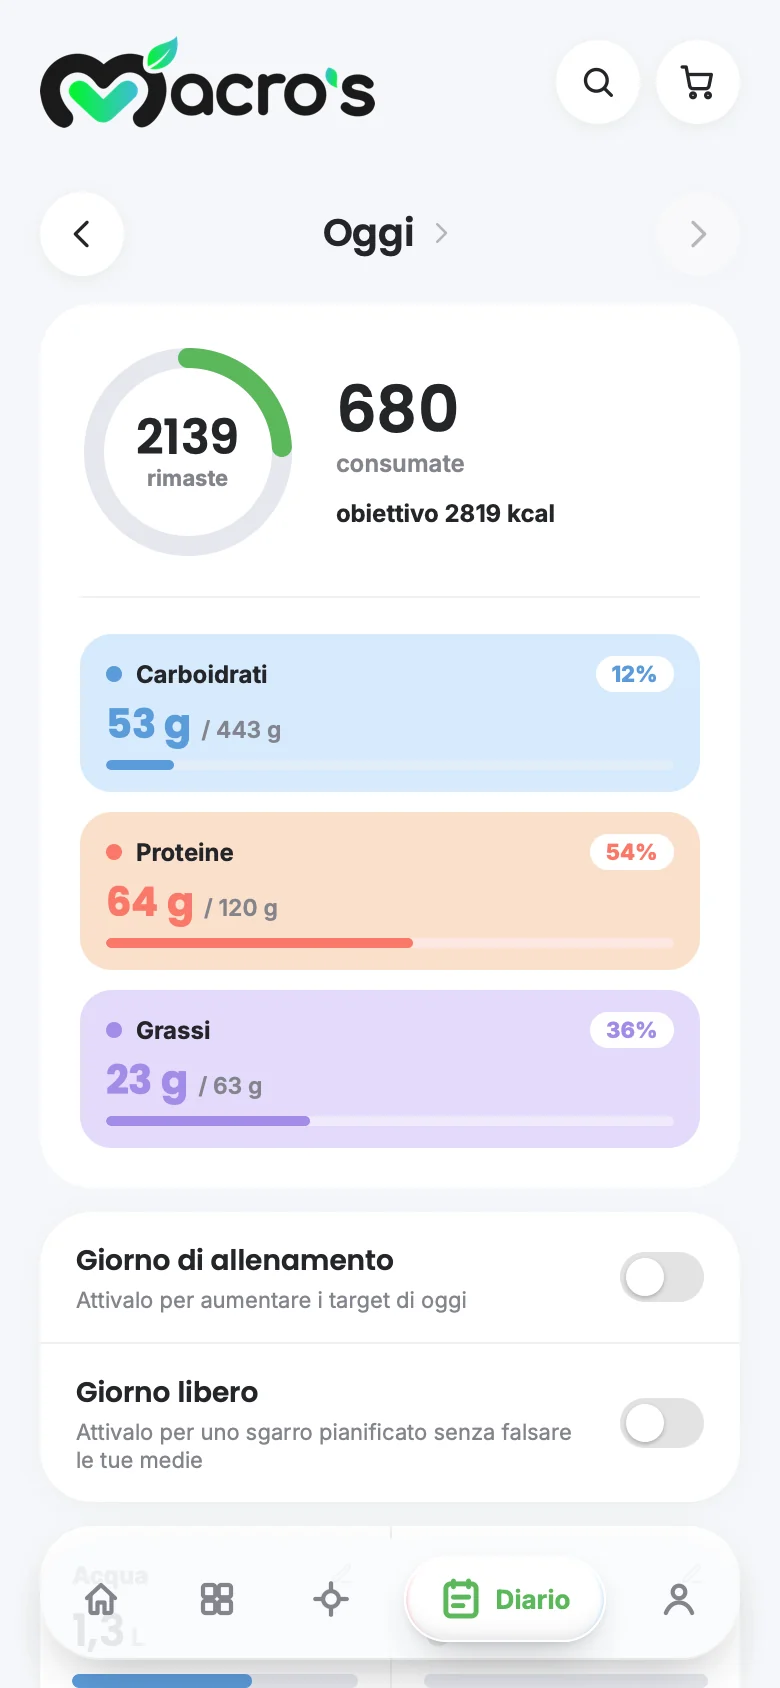
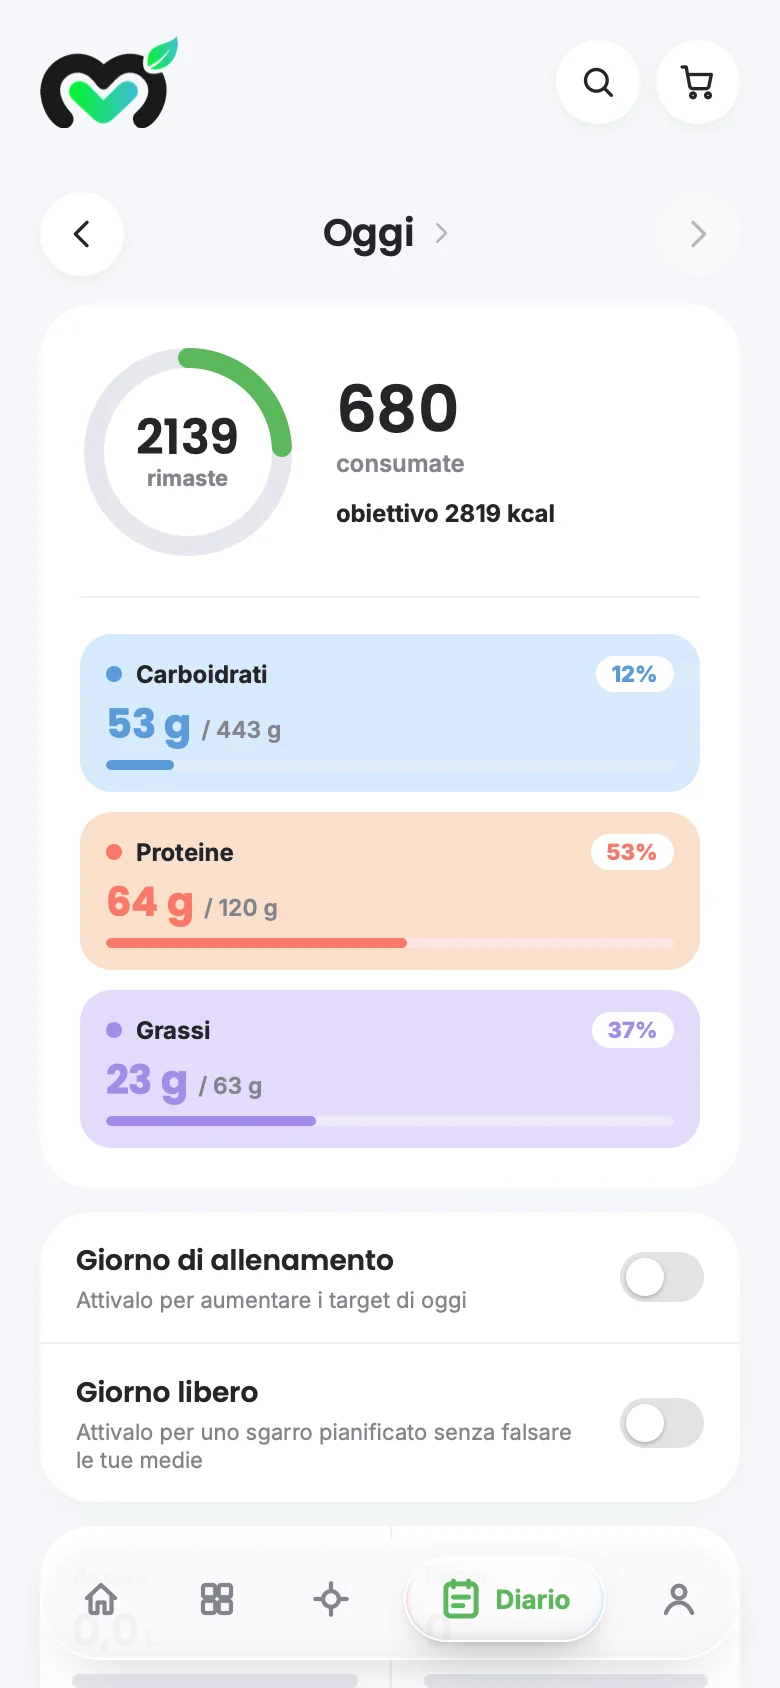
Landing: marchio attuale, Taste your goals, muffin, barattoli dei topping, schermate nuove dell'app

Changed region(s): [[0.2154, 0.0308, 0.4923, 0.0924], [0.0923, 0.9858, 0.3385, 1.0]]

diff --git a/index.html b/index.html
@@ -77,7 +77,7 @@ button{font:inherit;color:inherit;background:none;border:0;cursor:pointer;}
 .nav{position:sticky;top:0;z-index:30;background:rgba(20,21,25,.72);-webkit-backdrop-filter:saturate(1.4) blur(18px);backdrop-filter:saturate(1.4) blur(18px);border-bottom:1px solid transparent;transition:border-color .3s ease,background-color .3s ease;}
 .nav.scrolled{border-bottom-color:var(--line);background:rgba(20,21,25,.84);}
 .nav .wrap{display:flex;align-items:center;justify-content:space-between;height:64px;gap:16px;}
-.nav-logo img{height:28px;width:auto;}
+.nav-logo img{height:32px;width:auto;}
 .nav-links{display:flex;align-items:center;gap:30px;font-size:14px;}
 .nav-links a:not(.btn){position:relative;color:var(--text-2);text-decoration:none;transition:color .2s ease;}
 .nav-links a:not(.btn)::after{content:"";position:absolute;left:0;right:0;bottom:-5px;height:1.5px;border-radius:2px;background:var(--mint);transform:scaleX(0);transform-origin:left;transition:transform .35s var(--ease-out);}
@@ -357,7 +357,7 @@ html:not(.motion-ok) .meal[aria-hidden="true"]{display:none;}
 .legend{display:flex;flex-wrap:wrap;gap:6px 16px;margin-top:6px;font-size:13px;color:var(--text-3);}
 
 /* Dolci proteici */
-.sweets{list-style:none;margin:56px 0 0;padding:0;display:grid;grid-template-columns:repeat(4,minmax(0,1fr));gap:20px;}
+.sweets{list-style:none;margin:56px 0 0;padding:0;display:grid;grid-template-columns:repeat(5,minmax(0,1fr));gap:20px;}
 .sweet{padding:20px 20px 22px;border-radius:24px;background:var(--raise);box-shadow:inset 0 0 0 1px var(--line);}
 .sweet img{width:100%;aspect-ratio:1/1;object-fit:contain;filter:drop-shadow(0 18px 18px rgba(0,0,0,.5));margin-bottom:12px;transition:transform .6s var(--ease-out);}
 .sweet img.sweet-sm{padding:12%;}
@@ -541,13 +541,18 @@ html:not(.motion-ok) .meal[aria-hidden="true"]{display:none;}
 }
 footer .foot-credit{flex-basis:100%;}   /* riga a sé, sotto © anno */
 .final .bp-msg{min-height:1.5em;margin-top:16px;font-size:15px;color:var(--text-2);}   /* business plan: il PDF non c'è ancora */
+.hero-claim{margin:0 0 14px;font-size:13px;font-weight:700;letter-spacing:.14em;text-transform:uppercase;background:linear-gradient(90deg,#02aee0,#00de5a);-webkit-background-clip:text;background-clip:text;color:transparent;}
+.sweets .sweet:last-child:nth-child(odd){grid-column:auto;}
+@media (max-width:1080px){.sweets .sweet:last-child:nth-child(odd){grid-column:1/-1;width:calc(50% - 10px);justify-self:center;}}
+.bowls.jars{margin-top:40px;grid-template-columns:repeat(4,minmax(0,1fr));}
+@media (max-width:760px){.bowls.jars{grid-template-columns:repeat(2,minmax(0,1fr));}}
 </style>
 </head>
 <body>
 
 <nav class="nav" id="nav" aria-label="Principale">
   <div class="wrap">
-    <a class="nav-logo" href="#top" aria-label="MACRO'S, torna su"><img src="img/logo-dark.webp" alt="MACRO'S" width="102" height="28"></a>
+    <a class="nav-logo" href="#top" aria-label="MACRO'S, torna su"><img src="img/logo-mark.webp" alt="MACRO'S" width="48" height="32"></a>
     <div class="nav-links">
       <a href="#calcolo">Calcolo</a>
       <a href="#match">Match</a>
@@ -565,6 +570,7 @@ footer .foot-credit{flex-basis:100%;}   /* riga a sé, sotto © anno */
 
 <header class="hero" id="top">
   <div class="wrap">
+    <p class="hero-claim" data-enter>Taste your goals</p>
     <h1><span class="line"><span>Pasti su misura</span></span><span class="line"><span>dei tuoi macro.</span></span></h1>
     <p class="hero-sub" data-enter>MACRO'S calcola il tuo fabbisogno, ti propone il piatto che lo centra e tiene il diario per te.</p>
     <div class="hero-cta" data-enter>
@@ -586,7 +592,7 @@ footer .foot-credit{flex-basis:100%;}   /* riga a sé, sotto © anno */
       <div class="device-tilt" id="device-tilt">
         <div class="device" id="hero-device">
           <div class="screen" id="screen">
-            <img class="shot" id="shot" src="img/app-home.webp" alt="Schermata Home dell'app MACRO'S" width="780" height="1688">
+            <img class="shot" id="shot" src="img/app-home.webp?v=2" alt="Schermata Home dell'app MACRO'S" width="780" height="1688">
             <span class="screen-glare" aria-hidden="true"></span>
           </div>
         </div>
@@ -686,7 +692,7 @@ footer .foot-credit{flex-basis:100%;}   /* riga a sé, sotto © anno */
 
   <section class="sec showcase" id="match" aria-labelledby="match-t">
     <div class="wrap show-row">
-      <div class="show-device" data-tilt="-1"><div class="device"><span class="screen"><img class="shot" src="img/app-match.webp" alt="Schermata Match i tuoi macro dell'app" width="780" height="1688" loading="lazy"><span class="screen-glare" aria-hidden="true"></span></span></div></div>
+      <div class="show-device" data-tilt="-1"><div class="device"><span class="screen"><img class="shot" src="img/app-match.webp?v=2" alt="Schermata Match i tuoi macro dell'app" width="780" height="1688" loading="lazy"><span class="screen-glare" aria-hidden="true"></span></span></div></div>
       <div class="show-text">
         <p class="show-kicker rv">Match i tuoi macro</p>
         <h2 class="sec-title rv" id="match-t" style="--i:1">Non sai cosa mangiare? Inserisci i tuoi macro, gli alimenti te li consigliamo noi.</h2>
@@ -698,7 +704,7 @@ footer .foot-credit{flex-basis:100%;}   /* riga a sé, sotto © anno */
       </div>
     </div>
     <div class="wrap show-row rev" id="diario">
-      <div class="show-device" data-tilt="1"><div class="device"><span class="screen"><img class="shot" src="img/app-diary.webp" alt="Schermata del diario dell'app con calorie e macro della giornata" width="780" height="1688" loading="lazy"><span class="screen-glare" aria-hidden="true"></span></span></div></div>
+      <div class="show-device" data-tilt="1"><div class="device"><span class="screen"><img class="shot" src="img/app-diary.webp?v=2" alt="Schermata del diario dell'app con calorie e macro della giornata" width="780" height="1688" loading="lazy"><span class="screen-glare" aria-hidden="true"></span></span></div></div>
       <div class="show-text">
         <p class="show-kicker rv">Diario</p>
         <h2 class="sec-title rv" style="--i:1">Il tuo diario alimentare sempre con te.</h2>
@@ -756,8 +762,8 @@ footer .foot-credit{flex-basis:100%;}   /* riga a sé, sotto © anno */
   <section class="sec" id="zero" aria-labelledby="zero-t">
     <div class="wrap">
       <h2 class="sec-title rv" id="zero-t">Salse e topping Zero.</h2>
-      <p class="sec-lead rv" style="--i:1">Il gusto in più, quasi senza calorie: salse Zero sui piatti e, su yogurt, porridge e crema di riso, sciroppi Zero all'acero, al cioccolato e al caramello, burri di frutta secca e frutta secca.</p>
-      <ul class="bowls" id="bowls"><li class="bowl"><img src="img/s1.webp" alt="" width="260" height="260" loading="lazy"><b>Salsa MACRO'S Zero</b><span class="num">3 kcal per 25 g</span></li><li class="bowl"><img src="img/s2.webp" alt="" width="260" height="260" loading="lazy"><b>Salsa BBQ Zero</b><span class="num">4 kcal per 25 g</span></li><li class="bowl"><img src="img/s7.webp" alt="" width="260" height="260" loading="lazy"><b>Ketchup Zero</b><span class="num">5 kcal per 20 g</span></li><li class="bowl"><img src="img/s8.webp" alt="" width="260" height="260" loading="lazy"><b>Honey Mustard Zero</b><span class="num">7 kcal per 20 g</span></li><li class="bowl"><img src="img/s4.webp" alt="" width="260" height="260" loading="lazy"><b>Salsa Yogurt Greco</b><span class="num">5 kcal per 30 g</span></li><li class="bowl"><img src="img/s3.webp" alt="" width="260" height="260" loading="lazy"><b>Salsa Piccante</b><span class="num">4 kcal per 20 g</span></li></ul>
+      <p class="sec-lead rv" style="--i:1">Il gusto in più, quasi senza calorie: salse Zero sui piatti e, su yogurt, porridge e crema di riso, sciroppi Zero all'acero, al cioccolato, al caramello e alla fragola, burri di frutta secca e frutta secca.</p>
+      <ul class="bowls" id="bowls"><li class="bowl"><img src="img/s1.webp" alt="" width="260" height="260" loading="lazy"><b>Salsa MACRO'S Zero</b><span class="num">3 kcal per 25 g</span></li><li class="bowl"><img src="img/s2.webp" alt="" width="260" height="260" loading="lazy"><b>Salsa BBQ Zero</b><span class="num">4 kcal per 25 g</span></li><li class="bowl"><img src="img/s7.webp" alt="" width="260" height="260" loading="lazy"><b>Ketchup Zero</b><span class="num">5 kcal per 20 g</span></li><li class="bowl"><img src="img/s8.webp" alt="" width="260" height="260" loading="lazy"><b>Honey Mustard Zero</b><span class="num">7 kcal per 20 g</span></li><li class="bowl"><img src="img/s4.webp" alt="" width="260" height="260" loading="lazy"><b>Salsa Yogurt Greco</b><span class="num">5 kcal per 30 g</span></li><li class="bowl"><img src="img/s3.webp" alt="" width="260" height="260" loading="lazy"><b>Salsa Piccante</b><span class="num">4 kcal per 20 g</span></li></ul><ul class="bowls jars"><li class="bowl rv" style="--i:0"><img src="img/t-sy1.webp" alt="" width="260" height="260" loading="lazy"><b>Sciroppo d'Acero Zero</b><span class="num">20 kcal per 15 g</span></li><li class="bowl rv" style="--i:1"><img src="img/t-sy2.webp" alt="" width="260" height="260" loading="lazy"><b>Sciroppo al Cioccolato Zero</b><span class="num">26 kcal per 15 g</span></li><li class="bowl rv" style="--i:2"><img src="img/t-sy3.webp" alt="" width="260" height="260" loading="lazy"><b>Sciroppo al Caramello Zero</b><span class="num">22 kcal per 15 g</span></li><li class="bowl rv" style="--i:3"><img src="img/t-sy4.webp" alt="" width="260" height="260" loading="lazy"><b>Sciroppo alla Fragola Zero</b><span class="num">9 kcal per 15 g</span></li><li class="bowl rv" style="--i:0"><img src="img/t-f4.webp" alt="" width="260" height="260" loading="lazy"><b>Burro di Arachidi</b><span class="num">59 kcal per 10 g</span></li><li class="bowl rv" style="--i:1"><img src="img/t-f9.webp" alt="" width="260" height="260" loading="lazy"><b>Crema di Mandorle</b><span class="num">61 kcal per 10 g</span></li><li class="bowl rv" style="--i:2"><img src="img/t-f10.webp" alt="" width="260" height="260" loading="lazy"><b>Crema di Nocciole</b><span class="num">65 kcal per 10 g</span></li><li class="bowl rv" style="--i:3"><img src="img/t-f15.webp" alt="" width="260" height="260" loading="lazy"><b>Crema di Pistacchio</b><span class="num">63 kcal per 10 g</span></li></ul>
     </div>
   </section>
 
@@ -765,7 +771,7 @@ footer .foot-credit{flex-basis:100%;}   /* riga a sé, sotto © anno */
     <div class="wrap">
       <h2 class="sec-title rv" id="dolci-t">Anche il dolce, con i suoi macro.</h2>
       <p class="sec-lead rv" style="--i:1">Dolci proteici senza zuccheri aggiunti, con calorie e macro calcolati come ogni altro piatto.</p>
-      <ul class="sweets"><li class="sweet rv" style="--i:0"><img src="img/d1.webp" alt="" width="420" height="420" loading="lazy"><h3>Pancake Proteici</h3><p>Tre pancake da 50 g, con topping a scelta.</p><p class="num sweet-m"><b>321 kcal</b><span><i style="background:var(--p)"></i>28</span><span><i style="background:var(--c)"></i>34</span><span><i style="background:var(--g)"></i>7</span></p></li><li class="sweet rv" style="--i:1"><img class="sweet-sm" src="img/d2.webp" alt="" width="420" height="420" loading="lazy"><h3>Gelato Proteico</h3><p>Senza zuccheri aggiunti: scegli gusto e coppetta.</p><p class="num sweet-m"><b>155 kcal</b><span><i style="background:var(--p)"></i>16</span><span><i style="background:var(--c)"></i>14</span><span><i style="background:var(--g)"></i>4</span></p></li><li class="sweet rv" style="--i:2"><img src="img/d3.webp" alt="" width="420" height="420" loading="lazy"><h3>Cheesecake Proteica Fit</h3><p>Base d'avena e formaggio fresco magro, senza zuccheri aggiunti.</p><p class="num sweet-m"><b>302 kcal</b><span><i style="background:var(--p)"></i>34</span><span><i style="background:var(--c)"></i>24</span><span><i style="background:var(--g)"></i>8</span></p></li><li class="sweet rv" style="--i:3"><img src="img/d4.webp" alt="" width="420" height="420" loading="lazy"><h3>Tiramisù Fit</h3><p>Mascarpone light e proteine whey, senza zuccheri aggiunti.</p><p class="num sweet-m"><b>279 kcal</b><span><i style="background:var(--p)"></i>29</span><span><i style="background:var(--c)"></i>28</span><span><i style="background:var(--g)"></i>6</span></p></li></ul>
+      <ul class="sweets"><li class="sweet rv" style="--i:0"><img src="img/d1.webp" alt="" width="420" height="420" loading="lazy"><h3>Pancake Proteici</h3><p>Tre pancake da 50 g, con topping a scelta.</p><p class="num sweet-m"><b>321 kcal</b><span><i style="background:var(--p)"></i>28</span><span><i style="background:var(--c)"></i>34</span><span><i style="background:var(--g)"></i>7</span></p></li><li class="sweet rv" style="--i:1"><img class="sweet-sm" src="img/d2.webp" alt="" width="420" height="420" loading="lazy"><h3>Gelato Proteico</h3><p>Senza zuccheri aggiunti: scegli gusto e coppetta.</p><p class="num sweet-m"><b>155 kcal</b><span><i style="background:var(--p)"></i>16</span><span><i style="background:var(--c)"></i>14</span><span><i style="background:var(--g)"></i>4</span></p></li><li class="sweet rv" style="--i:2"><img src="img/d3.webp" alt="" width="420" height="420" loading="lazy"><h3>Cheesecake Proteica Fit</h3><p>Base d'avena e formaggio fresco magro, senza zuccheri aggiunti.</p><p class="num sweet-m"><b>302 kcal</b><span><i style="background:var(--p)"></i>34</span><span><i style="background:var(--c)"></i>24</span><span><i style="background:var(--g)"></i>8</span></p></li><li class="sweet rv" style="--i:3"><img src="img/d4.webp" alt="" width="420" height="420" loading="lazy"><h3>Tiramisù Fit</h3><p>Mascarpone light e proteine whey, senza zuccheri aggiunti.</p><p class="num sweet-m"><b>279 kcal</b><span><i style="background:var(--p)"></i>29</span><span><i style="background:var(--c)"></i>28</span><span><i style="background:var(--g)"></i>6</span></p></li><li class="sweet rv" style="--i:4"><img src="img/d5.webp" alt="" width="420" height="420" loading="lazy"><h3>Muffin Proteici Fit</h3><p>Avena, whey e albume, senza zuccheri aggiunti: quattro gusti.</p><p class="num sweet-m"><b>169 kcal</b><span><i style="background:var(--p)"></i>21</span><span><i style="background:var(--c)"></i>17</span><span><i style="background:var(--g)"></i>2</span></p></li></ul>
     </div>
   </section>
 
